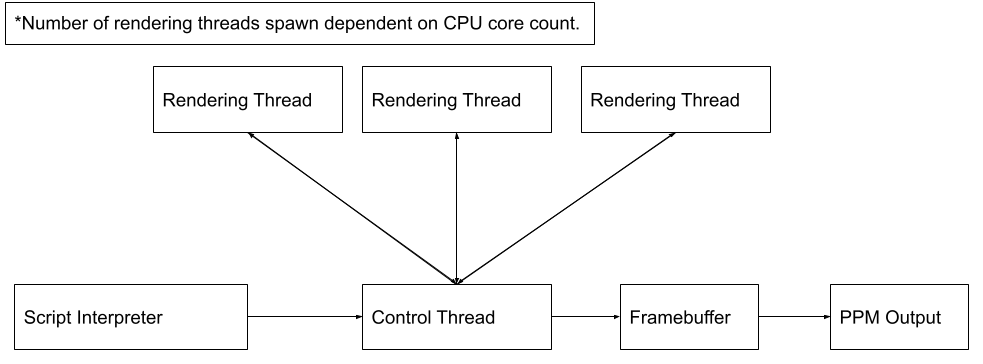
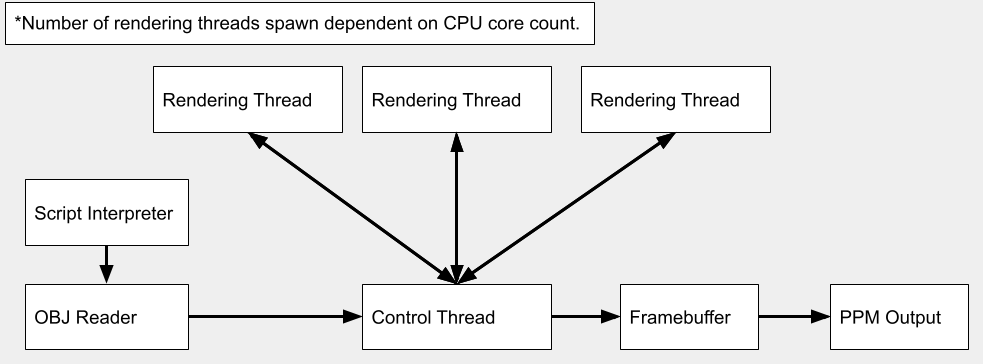
Added script interpreter

diff --git a/src/main.rs b/src/main.rs
@@ -21,15 +21,14 @@ use std::mem;
 use std::thread;
 use std::time::{Instant};
 use std::sync::{Arc};
+use std::collections::HashMap;
+use std::path::Path;
 use std::sync::mpsc::sync_channel;
+use std::io::BufRead;
 
-//Constants
-const BACKGROUND_COLOR: Vector3 = Vector3{x: 1.0, y: 1.0, z: 1.0};
-const PATH_DEPTH: i32 = 5;
-const HEIGHT: usize = 1280;
-const WIDTH: usize = 720;
+//Constant Variables
 const FOURX_AA: [Vector2; 4] = [Vector2{x: 0.25, y: 0.25}, Vector2{x: -0.25, y: 0.25}, Vector2{x: 0.25, y: -0.25}, Vector2{x: -0.25, y:-0.25}];
-const ANTI_ALIAS: bool = true;
+
 
 //Divide two usizes and return a float.
 fn udiv(x: usize, y: usize) -> f32{
@@ -159,34 +158,34 @@ fn scene_intersect<'a>(origin: Vector3, direction: Vector3, spheres: &Vec<Sphere
 }
 
 //Write the framebuffer to a ppm file.
-fn framebuffer_to_ppm(framebuffer: &mut Vec<Vector3>) -> io::Result<()>{
+fn framebuffer_to_ppm(framebuffer: &mut Vec<Vector3>, fheight: usize, fwidth: usize) -> io::Result<()>{
     //Open the PPM file.
     let mut file = File::create("./out.ppm")?;
     let start_time = Instant::now();
     //Write the header for the PPM file (P6 format, width, height, max color value).
     writeln!(file, "P6")?;
-    writeln!(file, "{} {}", WIDTH, HEIGHT)?;
+    writeln!(file, "{} {}", fwidth, fheight)?;
     writeln!(file, "255")?;
 
     //Write the pixel data.
-    for y in 0..HEIGHT {
-        for x in 0..WIDTH {
+    for y in 0..fheight {
+        for x in 0..fwidth {
             //Scale between 0 to 255 and convert to u8.
-            let mut c = framebuffer[x+y*WIDTH];
+            let mut c = framebuffer[x+y*fwidth];
             let max = f32::max(c.x, f32::max(c.y, c.z)); 
         
             if max > 1.0 {
                 let scale_factor = 1.0 / max;
                 c = c * scale_factor;
             } 
-            framebuffer[x+y*WIDTH] = c;
+            framebuffer[x+y*fwidth] = c;
 
-            let pixel_value = Vector3::new(framebuffer[x+y*WIDTH].x, framebuffer[x+y*WIDTH].y, framebuffer[x+y*WIDTH].z);
+            let pixel_value = Vector3::new(framebuffer[x+y*fwidth].x, framebuffer[x+y*fwidth].y, framebuffer[x+y*fwidth].z);
             let clamped = Vector3::tou8(pixel_value * 255.0);
             for i in clamped{
               file.write_all(&[i])?;
             }
-            print!("\r{:?}% of the image written to disk.", (udiv(x+y*WIDTH, HEIGHT*WIDTH)*100.0 + 1.0) as i32);
+            print!("\r{:?}% of the image written to disk.", (udiv(x+y*fwidth, fheight*fwidth)*100.0 + 1.0) as i32);
         }
     }
     let duration = start_time.elapsed();
@@ -195,7 +194,7 @@ fn framebuffer_to_ppm(framebuffer: &mut Vec<Vector3>) -> io::Result<()>{
 }
 
 //Raycast function, uses reflection, refraction, and calculates shadows.
-fn cast_ray(origin: Vector3, direction: Vector3, spheres: &Vec<Sphere>, lights: &Vec<Light>, meshes: &Vec<Model>, depth: i32) -> Vector3{
+fn cast_ray(origin: Vector3, direction: Vector3, spheres: &Vec<Sphere>, lights: &Vec<Light>, meshes: &Vec<Model>, depth: i32, background_color: Vector3, path_depth: i32) -> Vector3{
   let normal: Vector3 = Vector3::new(0.0, 0.0, 0.0);
   let point: Vector3 = Vector3::new(0.0, 0.0, 0.0);
   let material: Material = Material::new(Vector3::new(0.0, 0.0, 0.0), Vector4::new(0.0, 0.0, 0.0, 0.0), 0.0, 0.0);
@@ -203,7 +202,7 @@ fn cast_ray(origin: Vector3, direction: Vector3, spheres: &Vec<Sphere>, lights: 
   let mut specular_light_intensity: f32 = 0.0;
 
   //Check if we've exceeded the path depth to limit render times.
-  if depth <= PATH_DEPTH{
+  if depth <= path_depth{
     if let Some((point, normal, material)) = scene_intersect(origin, direction, &spheres, &meshes, point, normal, material) {
       let mut reflect_color: Vector3 = Vector3::new(0.0, 0.0, 0.0);
       let mut refract_color: Vector3 = Vector3::new(0.0, 0.0, 0.0);
@@ -223,8 +222,8 @@ fn cast_ray(origin: Vector3, direction: Vector3, spheres: &Vec<Sphere>, lights: 
           refract_origin = point - (normal * 0.001);
         }
 
-        reflect_color = cast_ray(reflect_origin, reflect_direction, spheres, lights, meshes, depth + 1);
-        refract_color = cast_ray(refract_origin, refract_direction, spheres, lights, meshes, depth + 1);
+        reflect_color = cast_ray(reflect_origin, reflect_direction, spheres, lights, meshes, depth + 1, background_color, path_depth);
+        refract_color = cast_ray(refract_origin, refract_direction, spheres, lights, meshes, depth + 1, background_color, path_depth);
         //Checking for shadows here.
         let mut shadow_origin = point + (normal * 0.001);
   
@@ -248,11 +247,11 @@ fn cast_ray(origin: Vector3, direction: Vector3, spheres: &Vec<Sphere>, lights: 
     }
   }
   //If nothing is hit, just return the background color of the render.
-  return BACKGROUND_COLOR;
+  return background_color;
 }
 
 //Our main rendering function that takes in our objects and lights.
-fn render(spheres: &Vec<Sphere>, lights: &Vec<Light>, meshes: &Vec<Model>){
+fn render(spheres: &Vec<Sphere>, lights: &Vec<Light>, meshes: &Vec<Model>, background_color: Vector3, path_depth: i32, fheight: usize, fwidth: usize, anti_alias: i32){
   let mut threads = 1 as usize;
   //Check how many threads we have access to.
   match thread::available_parallelism() {
@@ -270,7 +269,7 @@ fn render(spheres: &Vec<Sphere>, lights: &Vec<Light>, meshes: &Vec<Model>){
   let mut handles = vec![];
   let (tx, rx) = sync_channel(threads);
 
-  let mut framebuffer: Vec<Vector3> = vec![Vector3::new(0.0, 0.0, 0.0); WIDTH * HEIGHT];
+  let mut framebuffer: Vec<Vector3> = vec![Vector3::new(0.0, 0.0, 0.0); fwidth * fheight];
   let fov: f32 = 1.0;
 
   let spheres_arc = Arc::new(spheres.clone());
@@ -280,8 +279,8 @@ fn render(spheres: &Vec<Sphere>, lights: &Vec<Light>, meshes: &Vec<Model>){
 
   //Create a chunk of the render for each thread to compute.
   for j in 0..threads{
-    let start_y = ((j as f32)*udiv(HEIGHT, threads)) as usize;
-    let end_y = ((j as f32 + 1.0)*udiv(HEIGHT, threads)) as usize;
+    let start_y = ((j as f32)*udiv(fheight, threads)) as usize;
+    let end_y = ((j as f32 + 1.0)*udiv(fheight, threads)) as usize;
     let tx = tx.clone();
     let spheres_clone = Arc::clone(&spheres_arc);
     let lights_clone = Arc::clone(&lights_arc);
@@ -290,25 +289,25 @@ fn render(spheres: &Vec<Sphere>, lights: &Vec<Light>, meshes: &Vec<Model>){
     let handle = thread::spawn(move || {
     //Iterate through each pixel in the chunk and render it via ray-tracing.
     for y in start_y..end_y{
-      for x in 0..WIDTH{
+      for x in 0..fwidth{
         let mut color = Vector3::new(0.0, 0.0, 0.0);
         //Cast four rays for anti-aliasing.
-        if ANTI_ALIAS{
+        if anti_alias == 1{
           for i in 0..FOURX_AA.len(){
-            let transform_x = (2.0*(x as f32 + 0.5 + FOURX_AA[i].x)/(WIDTH as f32) - 1.0)*(fov/2.0).tan()*udiv(WIDTH, HEIGHT);
-            let transform_y = -1.0*(2.0*(y as f32 + 0.5 + FOURX_AA[i].y)/(HEIGHT as f32) - 1.0)*(fov/2.0).tan();
+            let transform_x = (2.0*(x as f32 + 0.5 + FOURX_AA[i].x)/(fwidth as f32) - 1.0)*(fov/2.0).tan()*udiv(fwidth, fheight);
+            let transform_y = -1.0*(2.0*(y as f32 + 0.5 + FOURX_AA[i].y)/(fheight as f32) - 1.0)*(fov/2.0).tan();
             let direction = Vector3::new(transform_x, transform_y, -1.0).normalize();
-            color = color + (cast_ray(Vector3::new(0.0, 0.0, 0.0), direction, &*spheres_clone, &*lights_clone, &*meshes_clone, 0)) * (1.0/(FOURX_AA.len() as f32));
+            color = color + (cast_ray(Vector3::new(0.0, 0.0, 0.0), direction, &*spheres_clone, &*lights_clone, &*meshes_clone, 0, background_color, path_depth)) * (1.0/(FOURX_AA.len() as f32));
           }
         }
         else{
-          let transform_x = (2.0*(x as f32 + 0.5)/(WIDTH as f32) - 1.0)*(fov/2.0).tan()*udiv(WIDTH, HEIGHT);
-          let transform_y = -1.0*(2.0*(y as f32 + 0.5)/(HEIGHT as f32) - 1.0)*(fov/2.0).tan();
+          let transform_x = (2.0*(x as f32 + 0.5)/(fwidth as f32) - 1.0)*(fov/2.0).tan()*udiv(fwidth, fheight);
+          let transform_y = -1.0*(2.0*(y as f32 + 0.5)/(fheight as f32) - 1.0)*(fov/2.0).tan();
           let direction = Vector3::new(transform_x, transform_y, -1.0).normalize();
-          color = cast_ray(Vector3::new(0.0, 0.0, 0.0), direction, &*spheres_clone, &*lights_clone, &*meshes_clone, 0);
+          color = cast_ray(Vector3::new(0.0, 0.0, 0.0), direction, &*spheres_clone, &*lights_clone, &*meshes_clone, 0, background_color, path_depth);
         }
         //Send pixel back to main thread for assembly.
-        tx.send((color, x+y*WIDTH)).unwrap();
+        tx.send((color, x+y*fwidth)).unwrap();
       }
     }
     });
@@ -323,7 +322,7 @@ fn render(spheres: &Vec<Sphere>, lights: &Vec<Light>, meshes: &Vec<Model>){
     count = count + 1;
     let (data, id) = msg;
     framebuffer[id] = data;
-    print!("\r{:?}% of the image rendered.", (((count as f32)/((HEIGHT*WIDTH) as f32))*100.0) as i32);
+    print!("\r{:?}% of the image rendered.", (((count as f32)/((fheight*fwidth) as f32))*100.0) as i32);
   }
   
   //Kill the threads once finished.
@@ -334,33 +333,57 @@ fn render(spheres: &Vec<Sphere>, lights: &Vec<Light>, meshes: &Vec<Model>){
   //Wrap everything up and send it to be output!
   let duration = start_time.elapsed();
   println!("\nRendering completed in {} seconds.", duration.as_secs_f64());
-  let _ = framebuffer_to_ppm(&mut framebuffer);
+  let _ = framebuffer_to_ppm(&mut framebuffer, fwidth, fheight);
+}
+
+fn read_lines<P>(filename: P) -> io::Result<io::Lines<io::BufReader<File>>>
+where P: AsRef<Path>, {
+    let file = File::open(filename)?;
+    Ok(io::BufReader::new(file).lines())
+}
+
+fn interpreter(input: String) -> (Vec<Light>, Vec<Sphere>, Vec<Model>, Vector3, i32, usize, usize, i32){
+  let mut materials: HashMap<String, Material> = HashMap::new();
+  let mut lights: Vec<Light> = Vec::new();
+  let mut spheres: Vec<Sphere> = Vec::new();
+  let mut meshes: Vec<Model> = Vec::new();
+  let mut background_color: Vector3 = Vector3{x: 1.0, y: 1.0, z: 1.0};
+  let mut path_depth: i32 = 5;
+  let mut fheight: usize = 1280;
+  let mut fwidth: usize = 720;
+  let mut anti_alias: i32 = 1;
+  if let Ok(lines) = read_lines(input) {
+    for line in lines.map_while(Result::ok) {
+      let line_split: Vec<&str> = line.split_whitespace().collect();
+      //This is super messy, I'll look into making it way cleaner soon...
+      match line.chars().take(2).collect::<String>().as_str() {
+        "h " => fheight = line_split[1].parse().unwrap(),
+        "w " => fwidth = line_split[1].parse().unwrap(),
+        "r " => path_depth = line_split[1].parse().unwrap(),
+        "aa" => anti_alias = line_split[1].parse().unwrap(),
+        "bg" => background_color = Vector3{x: line_split[1].parse().unwrap(), y: line_split[2].parse().unwrap(), z: line_split[3].parse().unwrap()},
+        "mt" => {materials.insert(line_split[1].to_string(), Material::new(Vector3::new(line_split[2].parse().unwrap(), line_split[3].parse().unwrap(), line_split[4].parse().unwrap()), Vector4::new(line_split[5].parse().unwrap(), line_split[6].parse().unwrap(), line_split[7].parse().unwrap(), line_split[8].parse().unwrap()), line_split[9].parse().unwrap(), line_split[10].parse().unwrap()));},
+        "l " => lights.push(Light::new(Vector3::new(line_split[1].parse().unwrap(), line_split[2].parse().unwrap(), line_split[3].parse().unwrap()), line_split[4].parse().unwrap())),
+        "sp" => spheres.push(Sphere::new(Vector3::new(line_split[1].parse().unwrap(), line_split[2].parse().unwrap(), line_split[3].parse().unwrap()), line_split[4].parse().unwrap(), materials[line_split[5]])),
+        "ms" => meshes.push(Model::new(line_split[1], Vector3::new(line_split[2].parse().unwrap(), line_split[3].parse().unwrap(), line_split[4].parse().unwrap()), materials[line_split[5]])),
+        _ => (),
+      }
+    }
+  }
+  return (lights, spheres, meshes, background_color, path_depth, fheight, fwidth, anti_alias);
 }
 
 fn main(){
-
-  //Initialize some materials, lights, and objects.
-  let shiny = Material::new(Vector3::new(0.4, 0.3, 0.4), Vector4::new(0.6, 0.3, 0.1, 0.0), 60.0, 1.0);
-  let green = Material::new(Vector3::new(0.1, 0.3, 0.1), Vector4::new(0.9, 0.1, 0.0, 0.0), 10.0, 1.0);
-  let red = Material::new(Vector3::new(0.3, 0.1, 0.1), Vector4::new(0.9, 0.1, 0.0, 0.0), 10.0, 1.0);
-  let yellow = Material::new(Vector3::new(0.3, 0.3, 0.1), Vector4::new(0.9, 0.1, 0.0, 0.0), 10.0, 1.0);
-  let mirror = Material::new(Vector3::new(1.0, 1.0, 1.0), Vector4::new(0.0, 10.0, 0.8, 0.0), 1400.0, 1.0);
-  let glass = Material::new(Vector3::new(0.6, 0.7, 0.8), Vector4::new(0.0,  0.5, 0.1, 0.8), 125.0, 1.5);
-
-  let mut lights: Vec<Light> = Vec::new();
-  lights.push(Light::new(Vector3::new(-20.0, 20.0, 20.0), 1.5));
-  lights.push(Light::new(Vector3::new(30.0, 50.0, -25.0), 1.8));
-  lights.push(Light::new(Vector3::new(30.0, 20.0, 30.0), 1.7));
-
-  let mut spheres: Vec<Sphere> = Vec::new();
-  spheres.push(Sphere::new(Vector3::new(3.0, 10.0, -25.0), 6.0, mirror));
-
-  
-  let mut meshes: Vec<Model> = Vec::new();
-  meshes.push(Model::new("res/plane.obj", Vector3::new(0.0, -4.0, 0.0), mirror));
-  meshes.push(Model::new("res/monkey.obj", Vector3::new(0.0, -0.5, -15.0), red));
-
+  println!("Welcome to Rustracer!");
+  //Read in the user's script.
+  let mut input = String::new();
+  println!("Please enter the local path to your script file (example at 'scripts/house.rustracer'):");
+  io::stdout().flush().unwrap();
+  io::stdin().read_line(&mut input).expect("Failed to read your input.");
+  let input = input.trim().to_string();
+  //Interpret the script into our render variables.
+  let (lights, spheres, meshes, background_color, path_depth, fheight, fwidth, anti_alias) = interpreter(input);
+  println!("Starting your render.");
   //Begin the render!
-  println!("Welcome to Rustracer, beginning your render...");
-  render(&spheres, &lights, &meshes);
+  render(&spheres, &lights, &meshes, background_color, path_depth, fheight, fwidth, anti_alias);
 }
